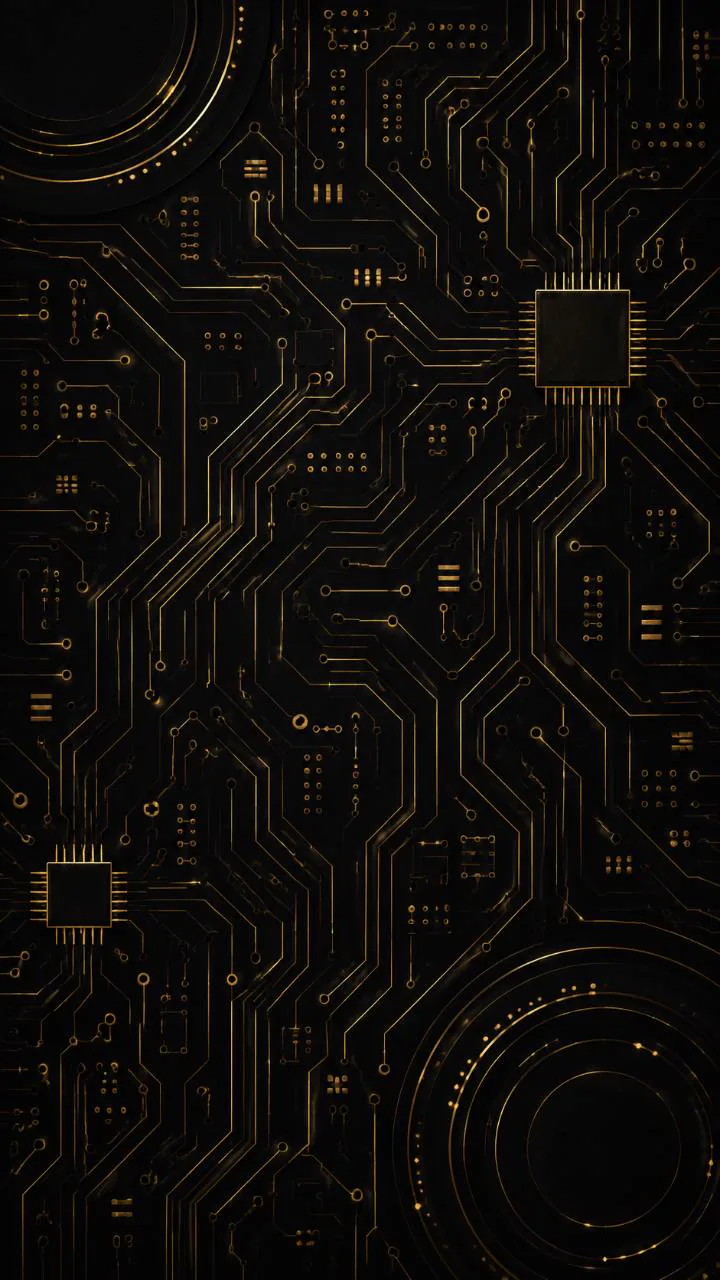
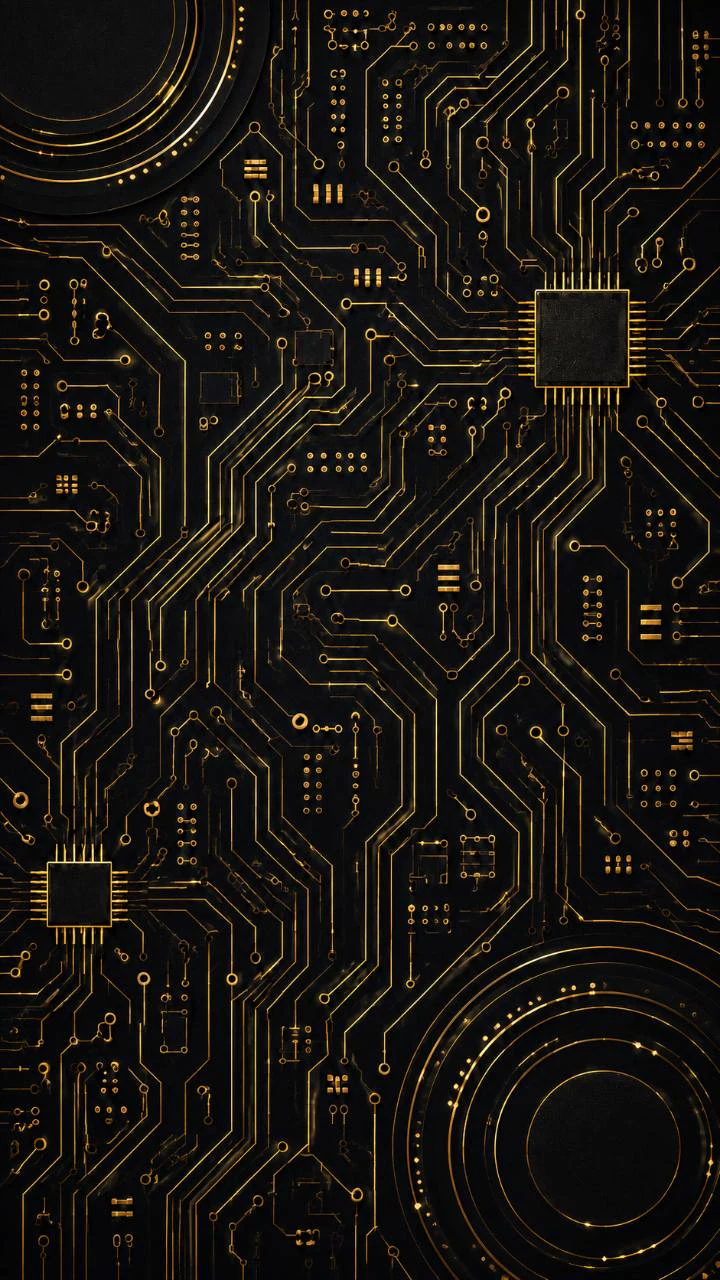
Update background and enlarge page titles

diff --git a/styles-5.css b/styles-5.css
@@ -31,6 +31,11 @@ h1 em {
     0 0 12px rgba(212, 170, 88, 0.12);
 }
 
+main > section:first-child h2 {
+  font-size: clamp(3rem, 6.6vw, 5.7rem);
+  max-width: 850px;
+}
+
 .hero-logo-image .stack-ai,
 .hero-logo-image .stack-four,
 .hero-logo-image .stack-all {
@@ -197,8 +202,12 @@ section {
   }
 
   h2 {
-    font-size: clamp(2.15rem, 10.6vw, 3rem);
+    font-size: clamp(2.45rem, 11.4vw, 3.45rem);
     line-height: 1.03;
+  }
+
+  main > section:first-child h2 {
+    font-size: clamp(2.7rem, 12.6vw, 3.85rem);
   }
 
   .button {
@@ -215,15 +224,15 @@ section {
     transform: translateX(-50%);
     opacity: 1;
     background-image:
-      linear-gradient(180deg, rgba(0, 0, 0, 0.46), rgba(0, 0, 0, 0.24) 42%, rgba(0, 0, 0, 0.64)),
-      radial-gradient(circle at 50% 18%, rgba(212, 170, 88, 0.18), transparent 18rem),
-      radial-gradient(circle at 80% 62%, rgba(143, 7, 18, 0.16), transparent 21rem),
-      url("mobile-circuit-bg.webp?v=1");
+      linear-gradient(180deg, rgba(0, 0, 0, 0.52), rgba(0, 0, 0, 0.30) 42%, rgba(0, 0, 0, 0.68)),
+      radial-gradient(circle at 50% 18%, rgba(212, 170, 88, 0.14), transparent 18rem),
+      radial-gradient(circle at 80% 62%, rgba(143, 7, 18, 0.15), transparent 21rem),
+      url("mobile-circuit-bg.webp?v=2");
     background-position: center top;
     background-repeat: no-repeat;
     background-size: auto 100vh;
     background-size: auto 100lvh;
-    filter: saturate(1.12) contrast(1.18) brightness(1.08);
+    filter: saturate(1.08) contrast(1.14) brightness(0.98);
     mask-image: none;
   }
 